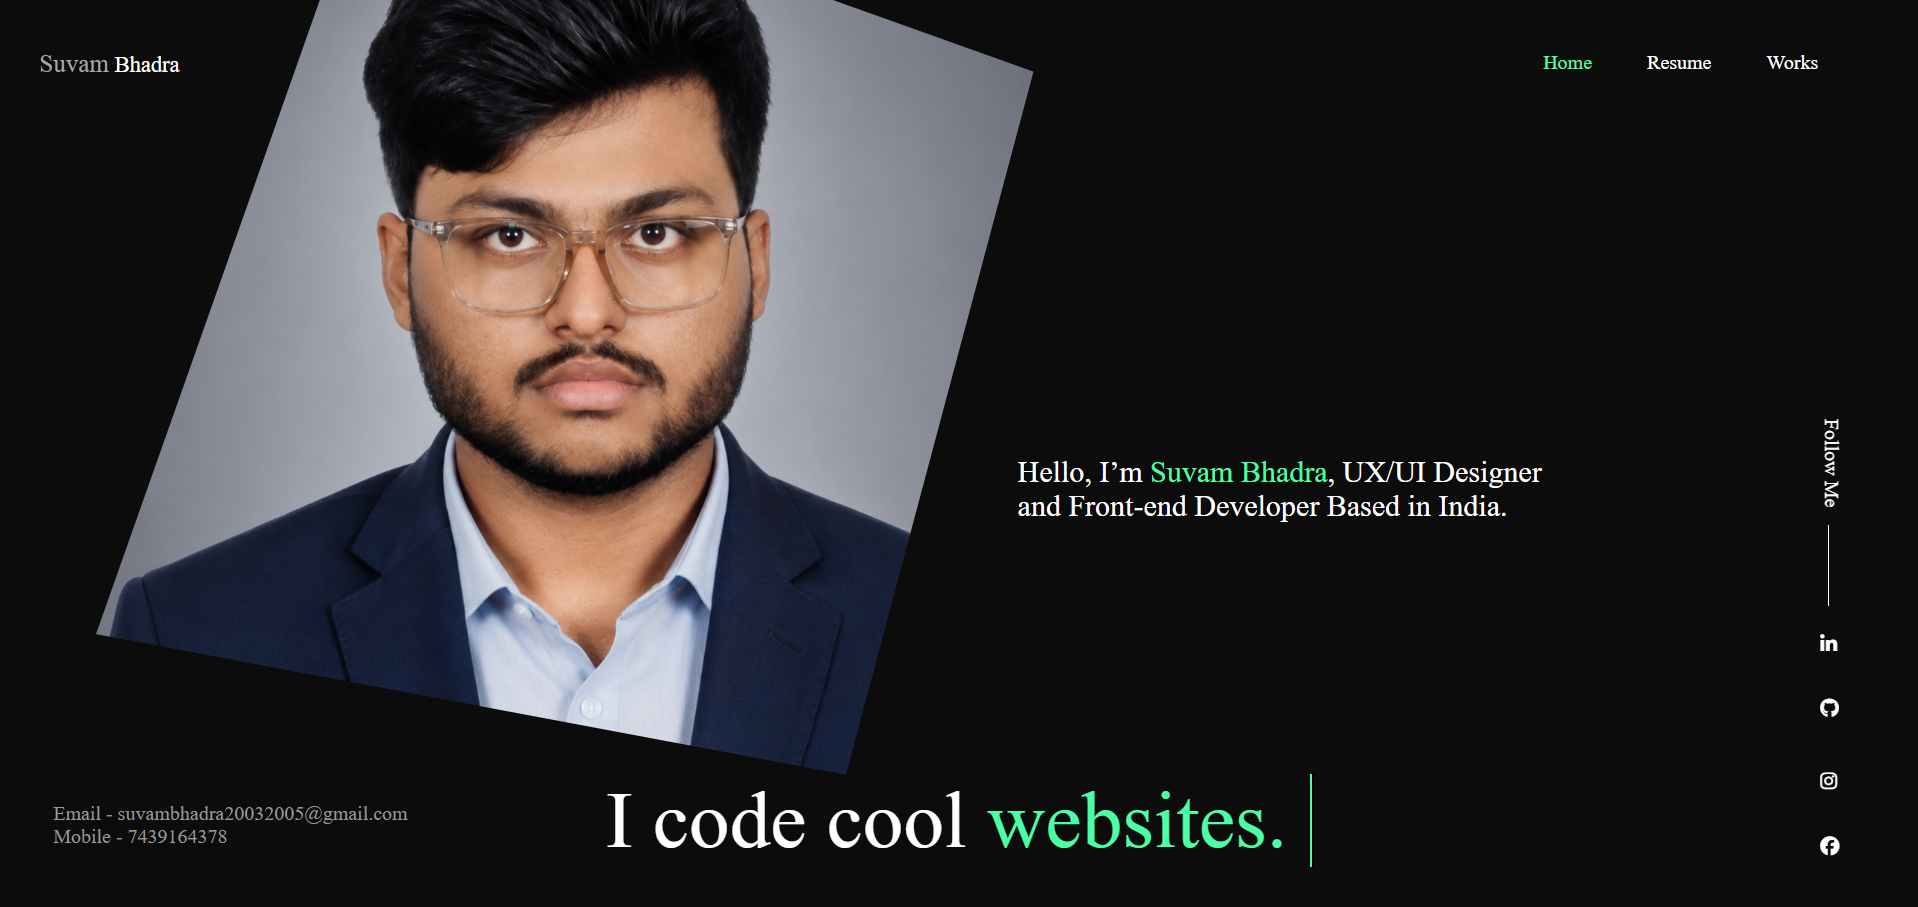
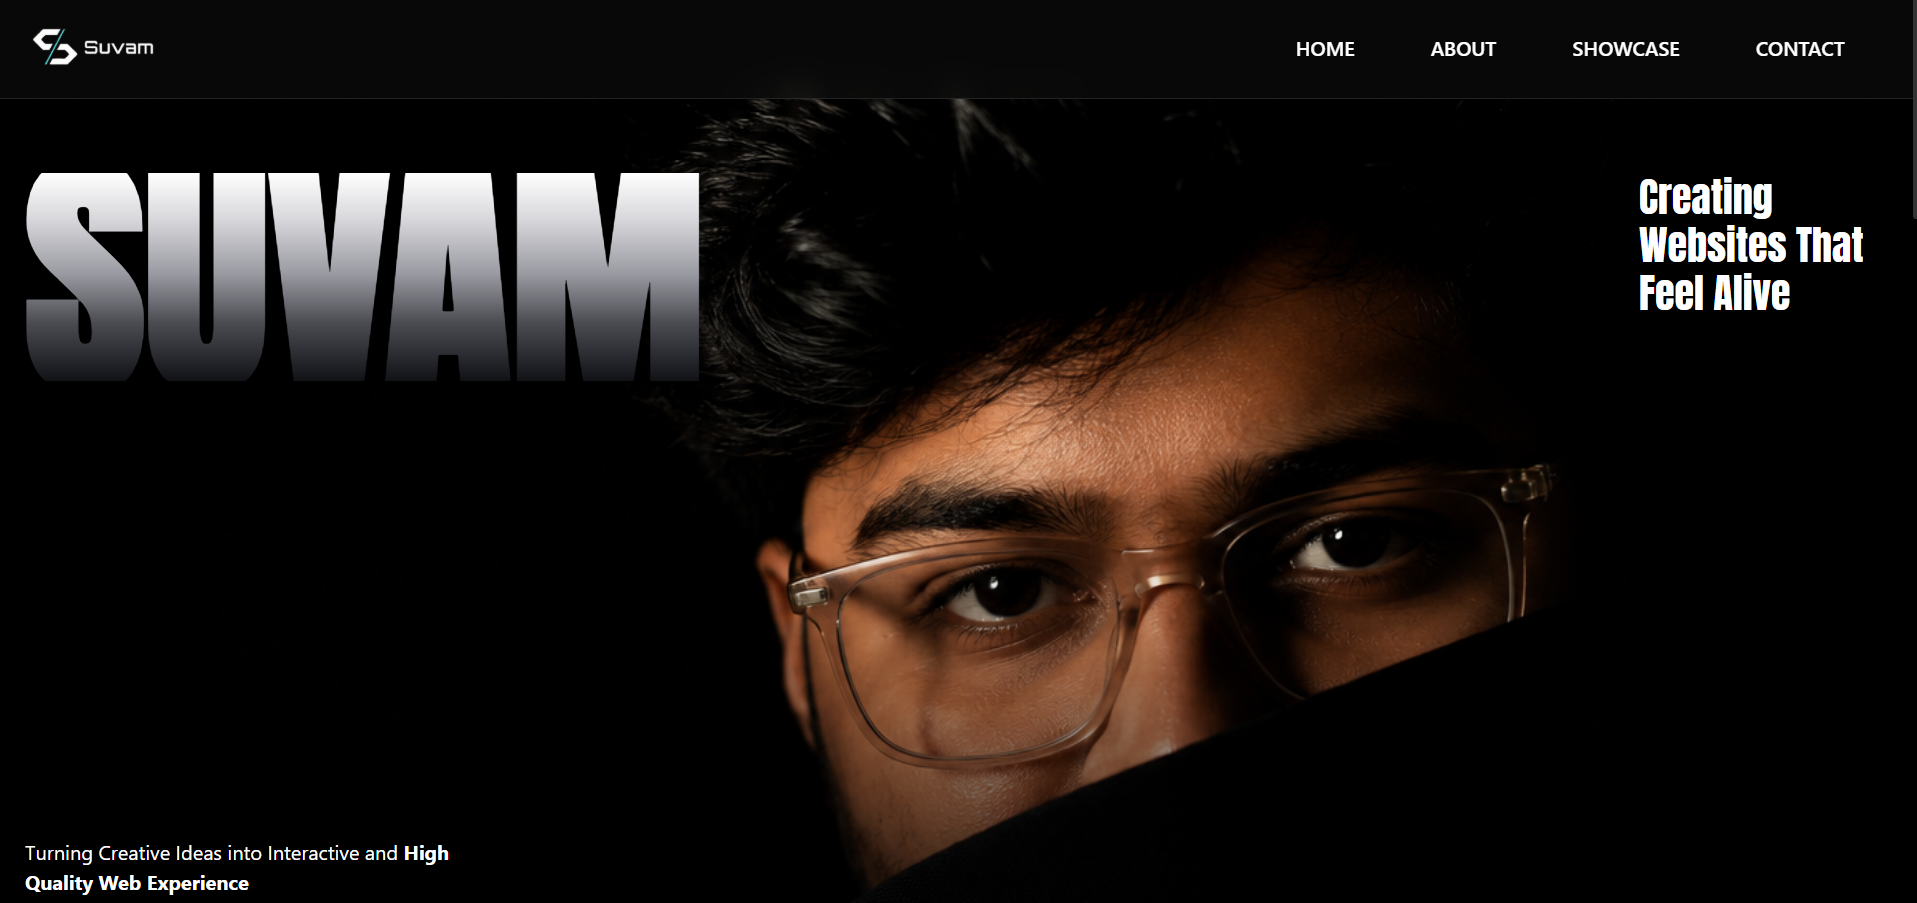
Update portfolio

diff --git a/src/utils/images.jsx b/src/utils/images.jsx
@@ -1,5 +1,4 @@
 import logo from "../assets/images/logo.png"
-import abacusIndia from "../assets/images/AbacusIndia.png"
 import portfolio from "../assets/images/portfolio.png"
 import reactAdminPanel from "../assets/images/ReactAdminPanel.png"
 import html from "../assets/images/HTML5.png"
@@ -14,11 +13,12 @@ import bootstrap from "../assets/images/Bootstrap.png"
 import firebase from "../assets/images/firebase.png"
 import aboutImg from "../assets/images/About-card.png"
 import idCard from "../assets/images/Id card.png"
+import desiDelight from "../assets/images/Desidelight.png"
 export const navbarLogo = {
     logo , href : "#home"
 }
 export const projects = {
-    abacusIndia , portfolio , reactAdminPanel
+    desiDelight , portfolio , reactAdminPanel
 }
 export const techStacks = {
     html , css , js , react , php , mysql , git , github , bootstrap , firebase

diff --git a/src/Components/Pages/tabs/Projects/Projectsdata.jsx b/src/Components/Pages/tabs/Projects/Projectsdata.jsx
@@ -1,6 +1,6 @@
 import { projects } from "../../../../utils/images"
 export const projectsData = [
-    {id : 1 , key : "portfolio" , images : projects.abacusIndia , techstack : "Html + Css + Javascript + php" , link : "https://www.indiaabacus.com/"},
-    {id : 2 , key : "abacusIndia" , images : projects.portfolio , techstack : "Html + Css + Javascript" , link : "https://suvam.xyz/"},
+    {id : 1 , key : "desiDelight" , images : projects.desiDelight , techstack : "Wordpress + Css + Javascript" , link : "https://desiidelight.com/"},
+    {id : 2 , key : "portfolio" , images : projects.portfolio , techstack : "React + Css + Firebase" , link : "https://suvam.xyz/"},
     {id : 3 , key : "reactAdminPanel" , images : projects.reactAdminPanel , techstack : "Html + Css + React" , link : "https://suvam2005.github.io/react-admin-panel/"}
 ]
